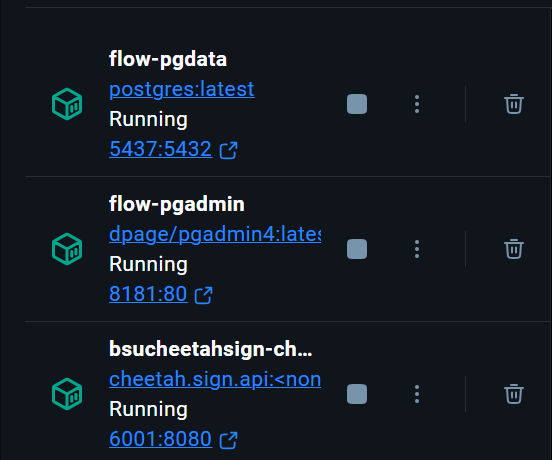
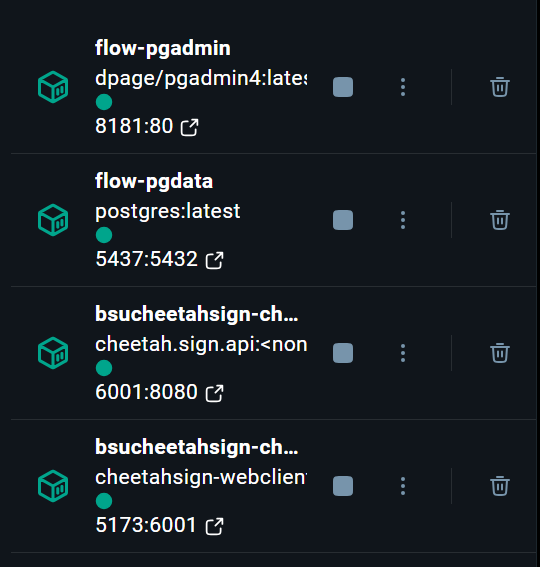
Add Docker Section to Development.md

diff --git a/Documentation/Development.md b/Documentation/Development.md
@@ -2,8 +2,8 @@
 
 ## Overview
 
-This project is run with a node.js web server and in a docker container. This documentation will go over the creation of the
-environment in two sections - setting up the web server and setting up the api. Both need to be ran at the same
+This project is run with a node.js web server and is Dockerized. This documentation will go over the replication of the development
+environment using Docker. We were provided with a template that already had the Postgres database and API Dockerized, but not the frontend. This project has two sections - the web server and the api. Both need to be ran at the same
 time for a proper dev environment.
 
 This documentation expects that you are setting up the dev environment on a Windows computer.
@@ -29,7 +29,11 @@ Once you have cloned into the repository, you will see
 two projects - Cheetah.Sign.Api (The Back-end)
 and cheetahsign-webclient (The Front-end).
 
+### Installation Prerequisites
+
 In order to run the program, you will need the following programs already installed:
+
+- Install [Docker Desktop](https://www.docker.com/products/docker-desktop/). This application lets you build and run your containerized applications.
 
 - IDE of your choice with the ability to docker compose (When writing this documentation, we opted to use Visual Studio Code
   with the Docker compose Extension)
@@ -42,11 +46,13 @@ In order to run the program, you will need the following programs already instal
 
 - Back-end:
   - .NET 8 SDK
-  - Docker Desktop
+  - [Docker Desktop](https://www.docker.com/products/docker-desktop/)
 
-## Front End Setup
+## Replicating via Docker
 
-### First Time Setup
+### First Time Frontend Setup
+
+At the time of this writing we have Dockerized the frontend as well, but there is a bug that causes the frontend to not take any API calls. There is an issue with how each of the Docker containers communicate with each other. To run the fully functional application, follow these steps to run your Vite development server from your IDE terminal first, and then run the Docker containers for the backend. To run the fully dockerized version continue to [Running the Backend](Development.md#building-the-docker-containers).
 
 Open up windows powershell or IDE terminal and navigate to the directory where the source code is stored. Navigate into the
 "cheetahsign-webclient" directory.
@@ -84,23 +90,24 @@ When making a new Vue file, ensure that you edit 'main.ts' to open your newly ma
 Vue file instead of the old one. You can do this by editing the directory from './App.vue' to the directory of your newly
 made vue file.
 
-## Back End Setup
+### Building The Docker Containers
 
-### Running the Backend
-
-Open your preferred IDE with the ability to compose. We are using VSCode so you will want to install the [Docker Extension](https://code.visualstudio.com/docs/containers/overview) to run it in the way presented. Now you should right click on the docker-compose.yml file and select "compose up".
+Open your preferred IDE with the ability to docker compose and your Docker Desktop application. We are using VSCode so you will want to install the [Docker Extension](https://code.visualstudio.com/docs/containers/overview) to run it in the way presented. Now you should right click on the docker-compose.yml file and select "compose up". This can take some time to build your containers.
 
 ![dockerCompose](./images/dockerCompose.png)
 
-Docker compose will spin up 3 images:
+You will know if the build was successful because your container names will appear in your terminal and
+Docker Compose will spin up 4 images:
 
-- cheetah.sign.api
 - pgdata
 - pgadmin
+- cheetah.sign.api
+- cheetahsign-webclient
 
+This is how it will appear on Docker Desktop:
 ![dockerContainer](./images/DockerContainer.png)
 
-### Setting Up Postgres (pgadmin)
+## Setting Up Postgres (pgadmin)
 
 The pgdata container will expose a specific port that you can use to setup your database server,
 so that the API can connect to the database. To setup your database, go to the port
